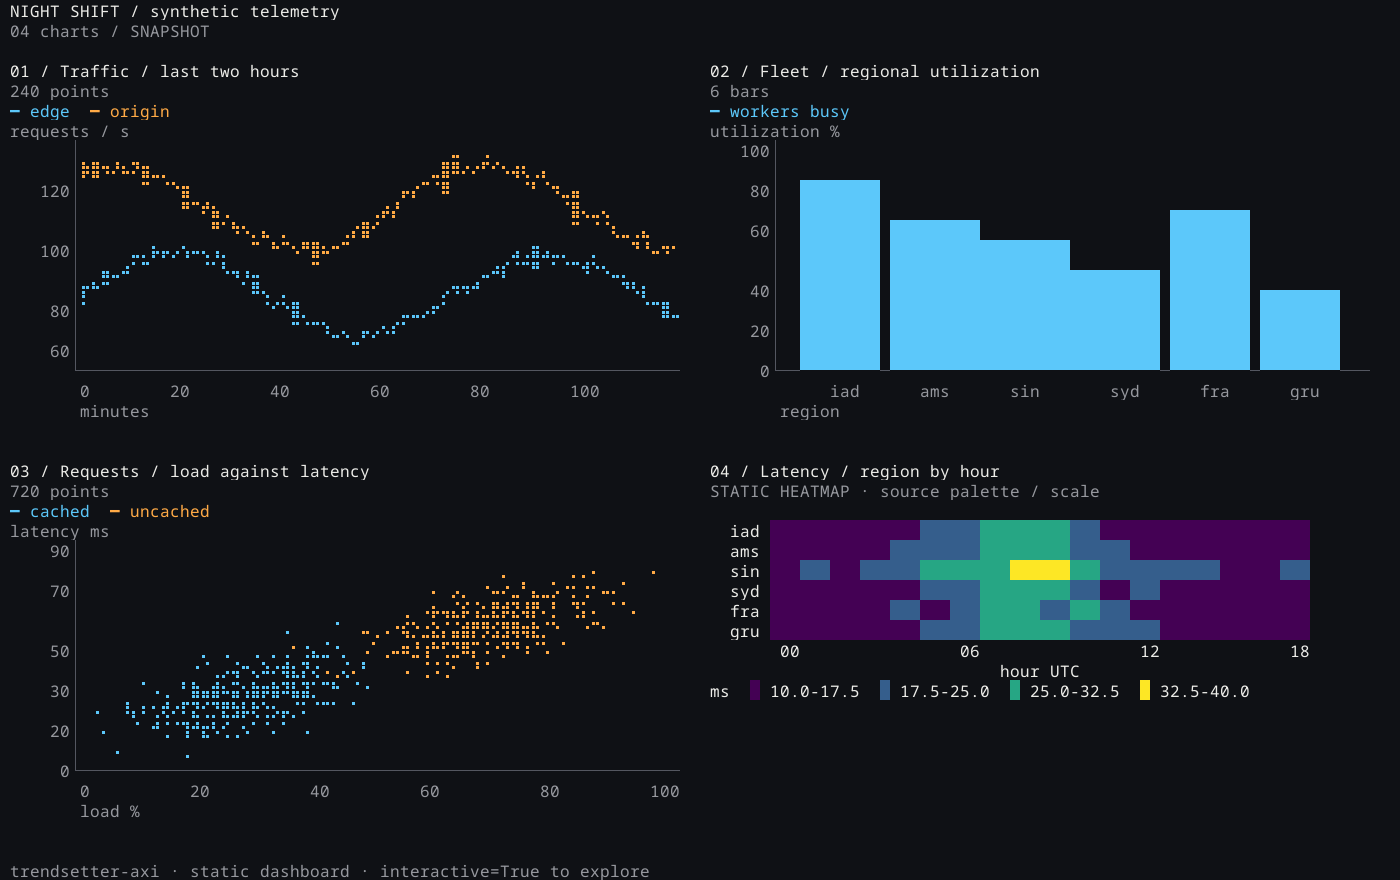
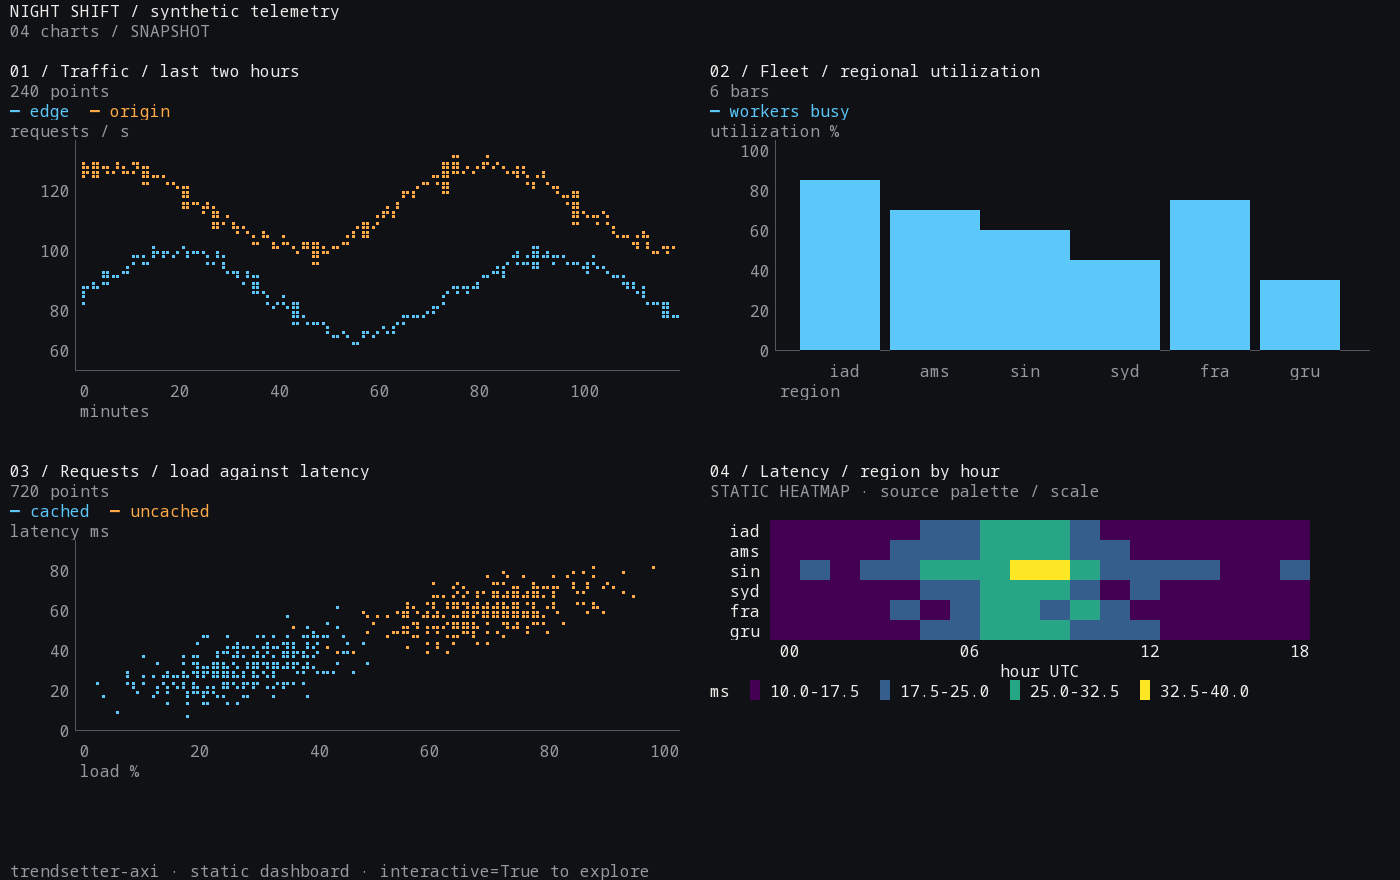
fix: correct styled chart tick spacing (#36)
* fix: snap styled tick spacing to cell grid

Fractional tick pitches produced uneven row and column gaps. Shrink the
styled plot by at most two cells to fit an integer tick pitch; retain
original rounding when no bounded snap fits. Source limits and agent
plain-text rendering stay unchanged.

Include diagonal hit neighbors so snapped scatter projections still
resolve to their contributing braille cells. Cover dashboard and static
tick projections and regenerate the real PTY demo assets.

* no-mistakes(document): Clarify diagonal hover selection in viewer documentation

diff --git a/tests/test_styled_ticks.py b/tests/test_styled_ticks.py
@@ -1,0 +1,140 @@
+"""Styled labels stay on their value; grid snapping never distorts the data."""
+import math
+import re
+
+import pytest
+
+from examples.dashboard_demo import make_figures
+from examples.scatter_brush import make_figure
+from trendsetter_axi import render_styled
+from trendsetter_axi.cells import SGR
+from trendsetter_axi.dashboards import Dashboard
+from trendsetter_axi.viewer import Projection, make_viewer
+
+
+def axis(limits=(0, 100), ticks=range(0, 101, 20)):
+    return {key: {'scale': 'linear', 'range': list(limits),
+                  'ticks': [{'value': value, 'label': str(value)} for value in ticks]}
+            for key in 'xy'}
+
+
+@pytest.mark.parametrize('inverted', [False, True])
+@pytest.mark.parametrize('extent,expected', [(12, 11), (13, 11), (14, 14), (11, 11), (2, 2)])
+def test_projection_snaps_at_most_two_cells_or_keeps_original(extent, expected, inverted):
+    scales = axis(limits=(100, 0) if inverted else (0, 100))
+    p = Projection(scales, 8, 6, extent, extent)
+    assert (p.cols, p.rows) == (expected, expected)
+    assert p.axis == scales
+    # Endpoints and data use the adjusted plot, not the old available extent.
+    assert p.cell(*([scales['x']['range'][0]] * 2)) == (8, 6 + expected - 1)
+    assert p.cell(*([scales['x']['range'][1]] * 2)) == (8 + expected - 1, 6)
+    if expected == 11:
+        for key, index in [('x', 0), ('y', 1)]:
+            cells = [round(p.cell(tick['value'], tick['value'])[index])
+                     for tick in scales[key]['ticks']]
+            assert len(set(b - a for a, b in zip(cells, cells[1:]))) == 1
+
+
+@pytest.mark.parametrize('ticks', [[], [0], [0, 10, 40, 100]])
+def test_missing_or_uneven_ticks_do_not_snap(ticks):
+    p = Projection(axis(ticks=ticks), 8, 6, 12, 12)
+    assert (p.cols, p.rows) == (12, 12)
+
+
+def assert_numeric_labels(lines, p, *, styled=False):
+    shown = {'x': [], 'y': []}
+    for row in range(p.top, p.top + p.rows):
+        label = lines[row][:6].strip()
+        if not label:
+            continue
+        value = float(label)
+        assert row == round(p.cell(p.axis['x']['range'][0], value)[1])
+        shown['y'].append((value, row))
+    bottom = p.top + p.rows if styled else p.top + p.rows - 1
+    for match in re.finditer(r'\S+', lines[bottom + 1][p.left:p.left + p.cols]):
+        value = next(tick['value'] for tick in p.axis['x']['ticks']
+                     if tick['label'] == match.group())
+        col = p.left + match.start()
+        projected = round(p.cell(value, p.axis['y']['range'][0])[0])
+        expected = max(p.left, min(p.left + p.cols - len(match.group()),
+                                   projected - len(match.group()) // 2))
+        assert col == expected
+        shown['x'].append((value, projected))
+    assert all(len(labels) >= 2 for labels in shown.values())
+    return shown
+
+
+def assert_equal_pitch(labels):
+    # Equal differences in values must have equal differences in cells.
+    pitches = {}
+    for (value, cell), (next_value, next_cell) in zip(labels, labels[1:]):
+        delta = next_value - value
+        if delta in pitches:
+            assert next_cell - cell == pitches[delta]
+        pitches[delta] = next_cell - cell
+
+
+def test_dashboard_demo_all_four_panels_keep_ticks_on_their_projected_rows():
+    m = Dashboard(make_figures(), color=False)
+    m.layout(140, 44)
+    frame = m.frame(interactive=False).splitlines()
+    for index in range(3):
+        v, tile = m.viewers[index], m.tiles[index]
+        lines = [line[tile.x:tile.x + tile.cols] for line in frame[tile.y:tile.y + tile.rows]]
+        shown = assert_numeric_labels(lines, v.projection)
+        if index in (1, 2):
+            assert_equal_pitch(shown['y'])
+        # Snapping changes only the available grid, never the source limits.
+        assert v.projection.limits == [tuple(v.record['axes'][0][key]['range']) for key in 'xy']
+    assert m.viewers[1].projection.rows == 11  # 100 / 20: five two-row intervals.
+    assert m.viewers[2].projection.rows == 10  # 90 / 10: nine one-row intervals.
+
+    # Fourth panel is the unchanged static heat renderer, not a styled Projection.
+    # Its inverted categorical projection puts each region at its own row centre.
+    tile = m.tiles[3]
+    lines = [line[tile.x:tile.x + tile.cols] for line in frame[tile.y:tile.y + tile.rows]]
+    labels = ['iad', 'ams', 'sin', 'syd', 'fra', 'gru']
+    actual = [next(row for row, line in enumerate(lines) if line.lstrip().startswith(label))
+              for label in labels]
+    top = actual[0]
+    lo, hi = m.viewers[3].record['axes'][0]['y']['range']
+    for value, row in enumerate(actual):
+        projected = top + (1 - (value - lo) / (hi - lo)) * len(labels)
+        assert row == math.floor(projected)
+    assert actual == list(range(top, top + 6))
+    assert all(label in lines[top + 6] for label in ['00', '06', '12', '18'])
+
+
+@pytest.mark.parametrize('rows', [38, 40])
+def test_single_render_styled_ticks_share_snapped_data_projection(rows):
+    fig = make_figure()
+    viewer = make_viewer(fig)
+    viewer.layout(120, rows)
+    frame = render_styled(fig, 120, rows, color=False).splitlines()
+    shown = assert_numeric_labels(frame, viewer.projection, styled=True)
+    assert viewer.projection.cols == 67  # Six eleven-column intervals.
+    assert_equal_pitch(shown['x'])
+    if rows == 40:
+        assert viewer.projection.rows == 26  # Five five-row intervals.
+        assert_equal_pitch(shown['y'])
+    else:
+        assert viewer.projection.rows == 25  # Four-row shrink exceeds budget.
+    assert SGR.sub('', viewer.frame()).splitlines()[:-1] == frame[:-1]
+
+
+def test_colliding_ticks_are_dropped_without_relocation():
+    # Fixed tick lists also exercise crowded x labels. A nonuniform list must
+    # retain the original projection, even when some labels have to disappear.
+    fig = make_figures()[2]
+    ax = fig.axes[0]
+    ax.set_xticks([0, 1, 2, 3, 50, 100])
+    ax.set_yticks([0, 1, 2, 3, 50, 90])
+    m = Dashboard([fig], color=False)
+    m.layout(80, 24)
+    p, tile = m.viewers[0].projection, m.tiles[0]
+    frame = m.frame(interactive=False).splitlines()
+    lines = [line[tile.x:tile.x + tile.cols] for line in frame[tile.y:tile.y + tile.rows]]
+    shown = assert_numeric_labels(lines, p)
+    assert len(shown['y']) < 6
+    assert len(shown['x']) < 6
+    assert (p.cols, p.rows) == (69, 12)

diff --git a/src/trendsetter_axi/viewer.py b/src/trendsetter_axi/viewer.py
@@ -80,6 +80,32 @@ class Point:
     label: str = ""
 
 
+def _tick_extent(scale, extent, origin, *, reverse=False):
+    """Fit equal tick steps to whole cells, sacrificing at most two cells."""
+    lo, hi = scale['range']
+    values = sorted({tick['value'] for tick in scale.get('ticks', [])
+                     if math.isfinite(tick['value']) and min(lo, hi) <= tick['value'] <= max(lo, hi)})
+    if len(values) < 2:
+        return extent
+    step = values[1] - values[0]
+    if not all(math.isclose(b - a, step, rel_tol=1e-9, abs_tol=0)
+               for a, b in zip(values, values[1:])):
+        return extent
+    fractions = [(value - lo) / (hi - lo) for value in values]
+    if reverse:
+        fractions = [1 - value for value in fractions]
+    for shrink in range(3):
+        span = extent - shrink - 1
+        pitch = abs(step / (hi - lo) * span)
+        if span < 1 or pitch < 1 or not math.isclose(pitch, round(pitch), rel_tol=1e-9, abs_tol=0):
+            continue
+        cells = [round(origin + fraction * span) for fraction in fractions]
+        # Half-cell ties can round in opposite directions; reject that phase too.
+        if all(abs(b - a) == round(pitch) for a, b in zip(cells, cells[1:])):
+            return extent - shrink
+    return extent
+
+
 class Projection:
     """Linear/date/category data -> terminal cells, preserving inverted limits."""
     def __init__(self, axis, left, top, cols, rows):
@@ -96,6 +122,8 @@ class Projection:
             if not all(map(math.isfinite, (lo, hi))) or lo == hi:
                 raise ValueError(f"unusable {k} range")
             self.limits.append((lo, hi))
+        self.cols = _tick_extent(axis['x'], cols, left)
+        self.rows = _tick_extent(axis['y'], rows, top, reverse=True)
 
     def cell(self, x, y):
         fx, fy = [(v - lo) / (hi - lo) for v, (lo, hi) in zip((x, y), self.limits)]
@@ -221,7 +249,9 @@ class Viewer:
             self.frame()
         cell = round(col), round(row)
         order = {mark['id']: i for i, mark in enumerate(self.draw_marks)}
-        nearby = [rc for rc in self.hit_cells if math.dist(rc, cell) <= 1]
+        # Braille cells floor both coordinates; rounding a point's projection
+        # can therefore land diagonally beside its contributing display cell.
+        nearby = [rc for rc in self.hit_cells if math.dist(rc, cell) <= math.sqrt(2)]
         if not nearby:
             return None
         hit = min(nearby, key=lambda rc: (math.dist(rc, cell), -order[self.hit_cells[rc][0]]))

diff --git a/examples/record_interaction.py b/examples/record_interaction.py
@@ -86,9 +86,14 @@ def report(button, col, row, up=False):
 
 
 def script():
-    # The packaged viewer's 120x38 layout is 68x25 cells at (8,6).
+    from scatter_brush import make_figure
+    from trendsetter_axi.viewer import make_viewer
+
+    viewer = make_viewer(make_figure())
+    viewer.layout(COLS, ROWS)
+
     def cell(x, y):
-        return round(8 + x / 120 * 67), round(6 + (1 - y / 100) * 24)
+        return tuple(map(round, viewer.projection.cell(x, y)))
     events = []
     def move(start, end, at, duration, drag=False):
         for i in range(1, round(duration * FPS) + 1):

diff --git a/README.md b/README.md
@@ -444,7 +444,8 @@ axis with linear, date or categorical scales. Log axes, multiple or inset/child 
 scatter color/size encodings, custom formatter offsets/multipliers, heatmaps, areas,
 errorbars, other scales and unread artists fall back to the existing static figure
 renderer with a clear message. Hover picks the
-topmost mark drawn in the terminal cell, or the nearest drawn cell within one cell.
+topmost mark drawn in the terminal cell, or the nearest occupied cell among its
+eight neighbors (including diagonals).
 Point marks return the last point painted in that cell's displayed selected/context
 group; lines return the nearest stored knot in the winning mark.
 Zoom/pan, row pinning and series toggles are not implemented.
@@ -533,6 +534,11 @@ ts.dashboard([fig1, fig2, fig3, fig4], interactive=True,
   create on refresh. `render().text`, summaries and chart records stay unchanged.
 
 #### Known limits
+
+Styled plot dimensions shrink by at most two rows/columns to give evenly spaced
+ticks a whole-cell pitch. If no such fit exists, labels retain normal nearest-cell
+rounding, at most half a cell from their continuous positions. Colliding labels are
+omitted, never nudged away from their values; source limits stay unchanged.
 
 Compact dashboard tick labels use at most 6 cells on y and 9 on x. Long date labels
 or close, high-magnitude values can lose distinguishing digits; use source values
